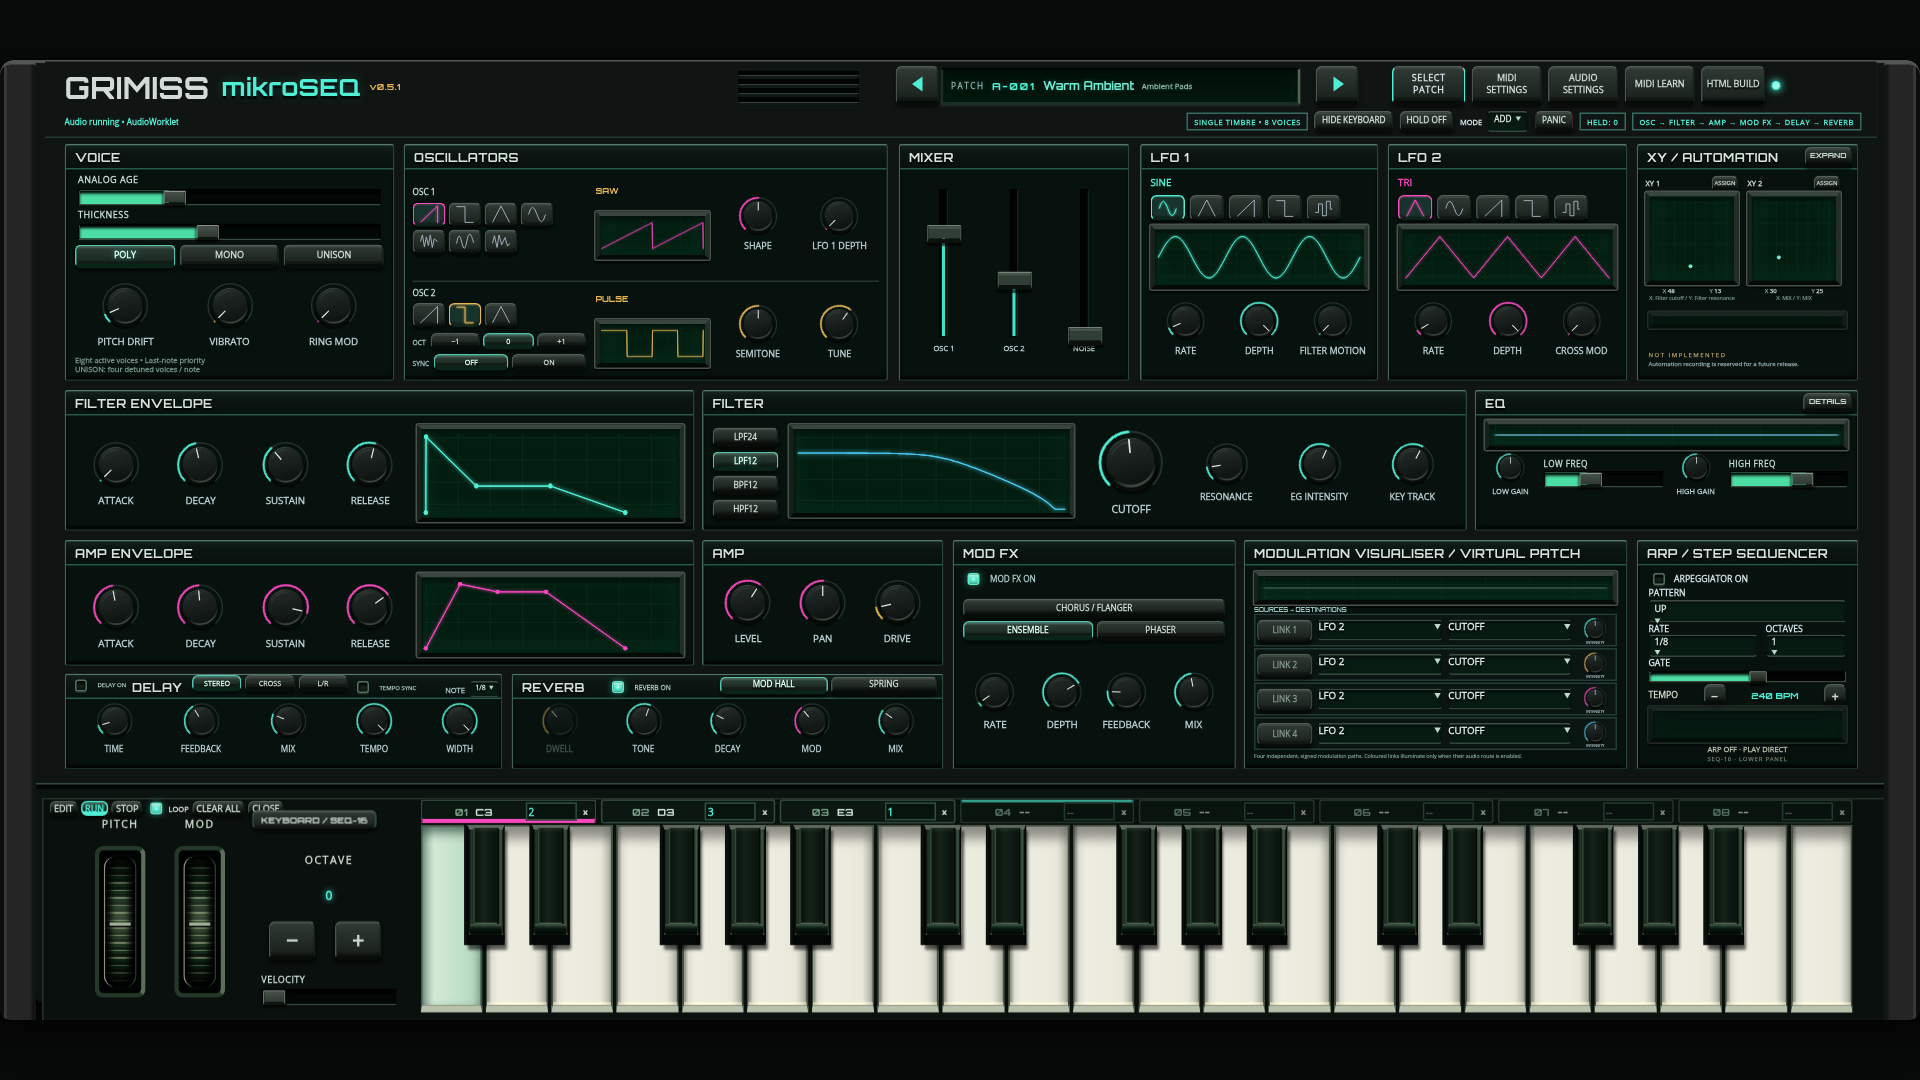
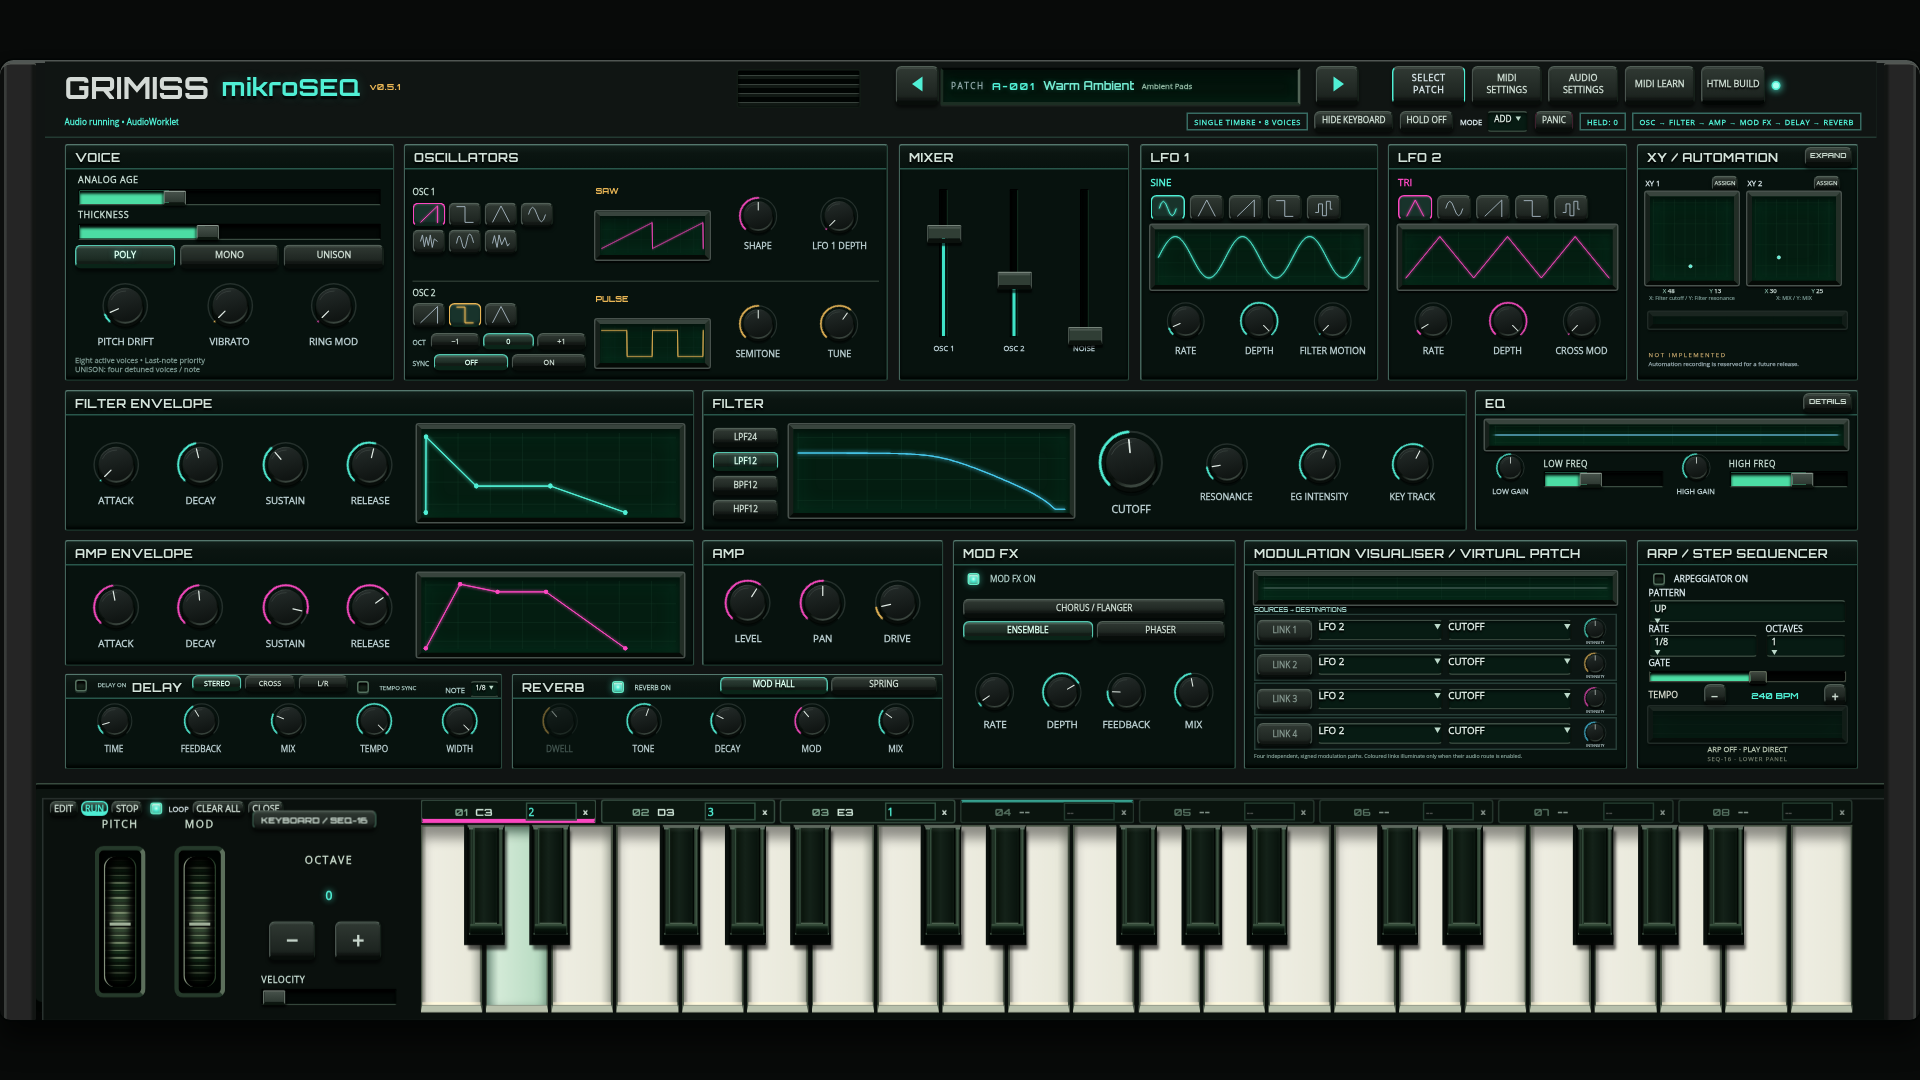
Record both-backend root input verification and final mikroSEQ guide

Changed region(s): [[0.2188, 0.7639, 0.2812, 0.9472]]

diff --git a/MIKROSEQ_ROOT_PROGRAM.md b/MIKROSEQ_ROOT_PROGRAM.md
@@ -43,3 +43,5 @@ FIXED is sample-identical to the pre-feature rollback for all six modes at 44.1/
 Existing sequencer, workflow, keyboard/audio browser, MIDI registry, audio/ownership, arpeggiator and 60-second poly/mono/unison stress regressions passed. One legacy fixed-80ms startup check failed under concurrent rendering load and passed when rerun in isolation; the explicit cold-start root-routing regression also passed. Physical MIDI hardware, tablet finger ergonomics and live-origin browser access are unverified. File URLs remain blocked by managed browser policy; local HTTP Worklet/fallback tests verify the build.
 
 The supplied specification ends mid-section 18 (“Stop playback. Rese…”). All complete supplied requirements were implemented, and flipping remains independent of playback/reset. No missing tail requirements were invented. Any additional sections need review when supplied.
+
+Final code checkpoint: 5d2ddfa on codex/controller-workflow-v0.7. Phase1:165fc22. Immediate Program RUN override input is verified in both Worklet and fallback, with no manual voice leakage. Known-good rollback source: cc5edb5 / Site version26. Current user-facing guides and MIDI map use GRIMISS mikroSEQ; historical logs/archives retain the former name where they record old checkpoints.

diff --git a/README.md b/README.md
@@ -46,3 +46,7 @@ Node18+ runs `npm run test:all`: original baseline, diagnostics, legacy DSP/owne
 For developer/offline testing only, serve `dist/` through localhost or HTTPS for AudioWorklet. Fallback shares the same DSP. `file://` is blocked by managed Chromium policy and remains unverified. Actual Windows/tablet performance and physical MIDI/touch are not established by Linux viewport tests.
 
 The original CONNECT screenshot remains the visual reference. v0.4/v0.5 fixtures preserve prior implementations. GitHub main and Sound Factory are untouched.
+
+## Keyboard roots and automatic root program
+
+In SEQ-16, ROOT SOURCE defaults to FIXED for compatibility. KEYBOARD latches the actual pressed note at the next pitch-step boundary without restarting the melody. PROGRAM opens an eight-slot keyboard-side editor: enter notes, set durations from1–64 pitch steps, then RUN. Program STOP freezes only root progression; LOOP repeats populated slots. With EDIT off, held keys temporarily override a running program. The melody and root program can have different cycle lengths. All six existing arp modes retain their old pitch rules; root selection affects independent SEQ notes, including ECHO. See [the root/program guide](MIKROSEQ_ROOT_PROGRAM.md).
